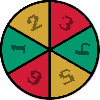
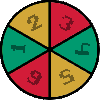
Auto spinning wheels

diff --git a/src/js/states/game.js b/src/js/states/game.js
@@ -12,6 +12,7 @@ Tactical.Game.prototype = {
 
         this.createInterface();
 
+        this.showInterface();
     },
     update: function() {
     },
@@ -38,17 +39,27 @@ Tactical.Game.prototype = {
     },
     createInterface() {
         this.interface = this.game.add.group();
+        this.positions = new Array();
 
         let interfaceX = (this.game.width/2);
         let interfaceY = (this.tiles.y * 2) + this.tiles.height;
 
         let spinner = new Spinner(this.game, (interfaceX/2) - 50, interfaceY);
+        spinner.onSpinStopped.add(this.onSpinnerStopped, this);
+        spinner.originalX = spinner.x;
+        spinner.outsideX = spinner.x - this.game.width;
         this.interface.addChild(spinner);
 
         spinner = new Spinner(this.game, interfaceX + this.interface.getChildAt(0).x - 50, interfaceY);
+        spinner.onSpinStopped.add(this.onSpinnerStopped, this);
+        spinner.originalX = spinner.x;
+        console.log(spinner.x);
+        spinner.outsideX = spinner.x + this.game.width;
         this.interface.addChild(spinner);
 
-        //this.createMarkers();
+        this.interface.forEach(function(item) {
+            item.x = item.outsideX;
+        }, this);
     },
     createMarkers() {
         this.markers.removeAll();
@@ -130,16 +141,31 @@ Tactical.Game.prototype = {
         }
     },
     hideInterface() {
-        console.log(this.interface);
-        console.log(this.interface.x);
-        console.log(this.interface.width);
-        let tween = this.game.add.tween(this.interface).to({x:-this.game.width}, 130).start();
+        this.interface.forEach(function(item) {
+            let tween = this.game.add.tween(item).to({x:item.outsideX}, 530, Phaser.Easing.Bounce.Out).start();
+        }, this);
+    },
+    showInterface() {
+        this.positions = new Array();
+
+        this.interface.forEach(function(item) {
+            item.init();
+            let tween = this.game.add.tween(item).to({x:item.originalX}, 530, Phaser.Easing.Bounce.Out).start();
+        }, this);
     },
     /* Event called when a tile is clicked by the active player */
     onTileClicked(tile, pointer) {
+        this.hideInterface();
         this.createUnit(tile.gridX, tile.gridY, 'peon');
         this.disableTilesClick();
         this.disableTilesFading();
-        this.hideInterface();
+        this.showInterface();
+    },
+    onSpinnerStopped(spinner, prize) {
+        this.positions.push(prize);
+
+        if (this.positions.length >= 2) {
+            this.createMarkers();
+        }
     }
 };

diff --git a/src/js/spinner.js b/src/js/spinner.js
@@ -15,11 +15,14 @@ function Spinner(game, x, y) {
     this.inputEnabled = true;
 
     this.canSpin = true;
-    this.events.onInputDown.add(this.spin, this);
+    this.events.onInputDown.add(this.stop, this);
+    //this.events.onInputDown.add(this.spin, this);
 
     this.value = this.game.add.bitmapText(-8, -7, 'font:gui', '', 16);
     this.value.tint = 0x000000;
     this.addChild(this.value);
+
+    this.onSpinStopped = new Phaser.Signal();
 }
 
 Spinner.prototype = Object.create(Phaser.Sprite.prototype);
@@ -28,10 +31,17 @@ Spinner.prototype.constructor = Spinner;
 Spinner.SLICES = 6;
 Spinner.PRIZES = [3, 4, 5, 6, 1, 2];
 
+Spinner.prototype.init = function() {
+    this.degrees = -1;
+    this.tween = this.game.add.tween(this.getChildAt(0)).to({angle:360}, 800, Phaser.Easing.Linear.None, this).loop();
+    this.tween.onLoop.add(this.onLoop, this);
+    this.value.text = "";
+};
+
 Spinner.prototype.spin = function() {
     if (this.canSpin) {
         this.canSpin = false;
-        var loop = this.game.rnd.between(2, 4);
+        var loop = 1;//this.game.rnd.between(2, 4);
 
         var degrees = this.game.rnd.between(0, 360);
 
@@ -42,7 +52,23 @@ Spinner.prototype.spin = function() {
     }
 };
 
+Spinner.prototype.stop = function() {
+    this.degrees = this.game.rnd.between(0, 360);
+    this.prize = Spinner.SLICES - 1 - Math.floor(this.degrees / (360 / Spinner.SLICES));
+}
+
 Spinner.prototype.onStopped = function() {
     this.canSpin = true;
     this.value.text = Spinner.PRIZES[this.prize];
+
+    this.onSpinStopped.dispatch(this, this.value.text);
+};
+
+Spinner.prototype.onLoop = function() {
+    if (this.degrees >= 0) {
+        console.log('onLoop done...');
+        var loop = this.game.rnd.between(2, 4);
+        this.tween.stop();
+        this.spin();
+    }
 };
